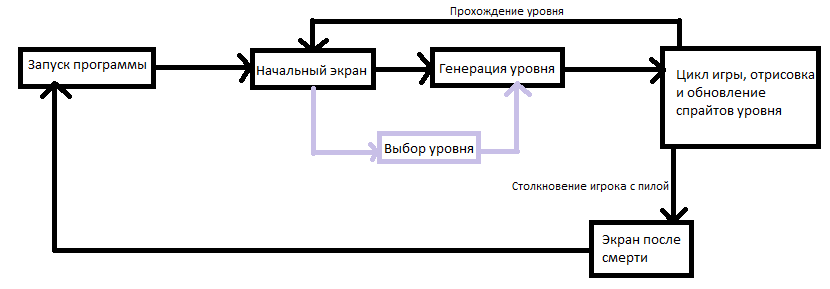
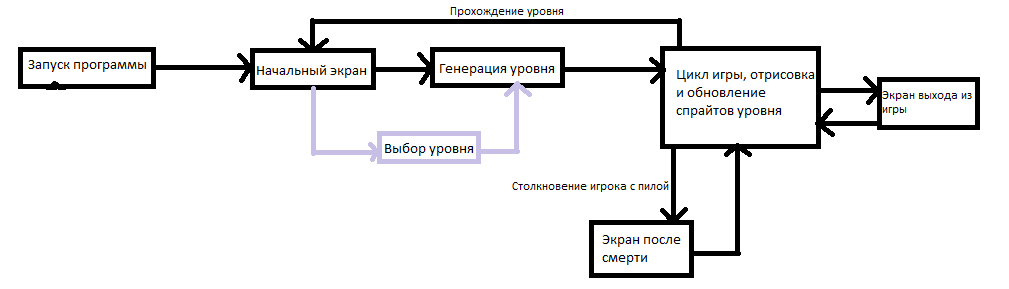
- Сделана более простая механика возрождения, игрок теперь возрождается радом с убившим его объектом по нажатию кнопки мыши

Changed region(s): [[0.0, 0.0311, 0.994, 0.9654]]

diff --git a/main.py b/main.py
@@ -78,11 +78,11 @@ def exit_screen():
                         cancel_button_rect_coordinates[1] <= event.pos[1] <= cancel_button_rect_coordinates[3]:
                     return
         pygame.display.flip()
-        clock.tick(FPS)
+        clock.tick(fps)
 
 
 def death_screen(direction):
-    image = pygame.transform.scale(load_image('death_screen.png'), (width, 179))
+    image = pygame.transform.scale(load_image('death_screen.png'), (width, 200))
     screen.blit(image, (0, 0))
     while True:
         for event in pygame.event.get():
@@ -179,17 +179,16 @@ class Camera:
         if moving:
             if direction == 'up':
                 obj.rect.y += tick
-                print(tick)
-                distance_pass[1] -= tick
+                # distance_pass[1] -= tick
             elif direction == 'down':
                 obj.rect.y -= tick
-                distance_pass[1] += tick
+                # distance_pass[1] += tick
             elif direction == 'right':
                 obj.rect.x -= tick
-                distance_pass[0] += tick
+                # distance_pass[0] += tick
             elif direction == 'left':
                 obj.rect.x += tick
-                distance_pass[0] -= tick
+                # distance_pass[0] -= tick
         else:
             if direction == 'up':
                 obj.rect.y -= tick - 5
@@ -202,16 +201,13 @@ class Camera:
 
     def revival_position(self, obj, direction):
         if direction == 'up':
-            print(distance_pass[1])
-            obj.rect.y += -50
+            obj.rect.y += -tick
         elif direction == 'down':
-            obj.rect.y -= distance_pass[1]
+            obj.rect.y -= -tick
         elif direction == 'right':
-            obj.rect.x -= distance_pass[0]
+            obj.rect.x -= -tick
         elif direction == 'left':
-            obj.rect.x += distance_pass[0]
-
-
+            obj.rect.x += -tick
 
 
 def generate_level(level):
@@ -234,7 +230,7 @@ start_screen()
 camera = Camera()
 player, level_x, level_y = generate_level(load_level('level1.txt'))
 key = ''
-distance_pass = [0, 0]
+# distance_pass = [0, 0]
 tick = round(player.speed / fps)
 direction = ''
 moving = False
@@ -253,42 +249,36 @@ while running:
     if moving:
         if pygame.sprite.spritecollideany(player, saw_group):
             moving = False
-            for sprite in all_sprites:
-                camera.revival_position(sprite, direction)
-                # death_screen()
+            death_screen(direction)
         if key == pygame.K_UP:
-            # player.rect.y -= tick
             direction = 'up'
-            print(distance_pass)
+            # print(distance_pass)
             if pygame.sprite.spritecollideany(player, wall_group):
-                distance_pass[1] = 0
+                # distance_pass[1] = 0
                 player.rect.y += tick - 1
                 moving = False
             for sprite in all_sprites:
                 camera.apply(sprite, direction, moving)
         elif key == pygame.K_DOWN:
-            # player.rect.y += tick
             direction = 'down'
             if pygame.sprite.spritecollideany(player, wall_group):
-                distance_pass[1] = 0
+                # distance_pass[1] = 0
                 player.rect.y -= tick - 5
                 moving = False
             for sprite in all_sprites:
                 camera.apply(sprite, direction, moving)
         elif key == pygame.K_RIGHT:
-            # player.rect.x += tick
             direction = 'right'
             if pygame.sprite.spritecollideany(player, wall_group):
-                distance_pass[0] = 0
+                # distance_pass[0] = 0
                 player.rect.x -= tick + 7
                 moving = False
             for sprite in all_sprites:
                 camera.apply(sprite, direction, moving)
         elif key == pygame.K_LEFT:
-            # player.rect.x -= tick
             direction = 'left'
             if pygame.sprite.spritecollideany(player, wall_group):
-                distance_pass[0] = 0
+                # distance_pass[0] = 0
                 player.rect.x += tick + 7
                 moving = False
             for sprite in all_sprites:
